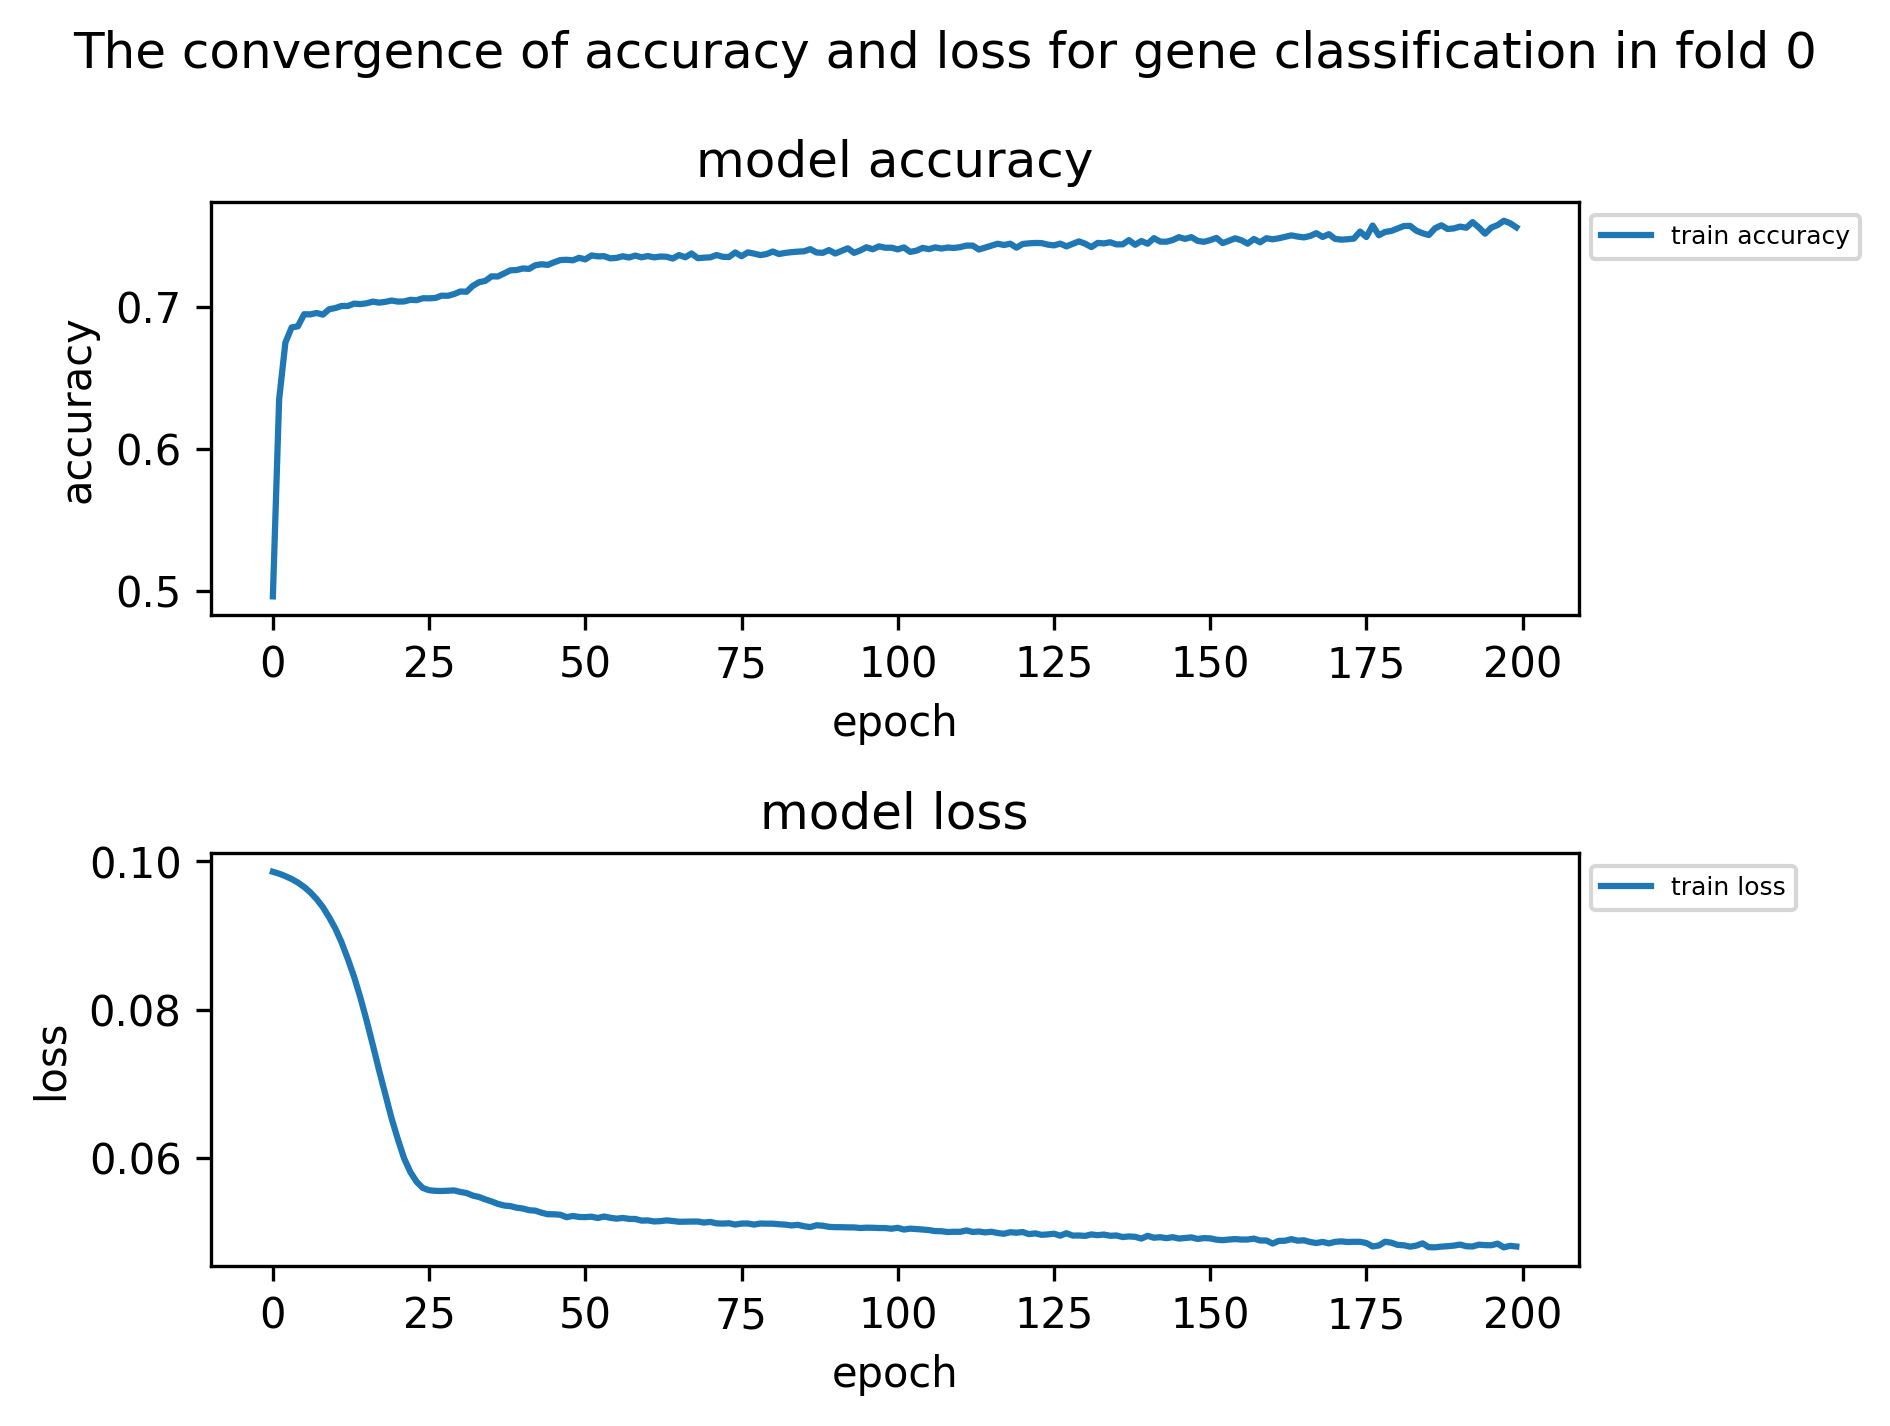
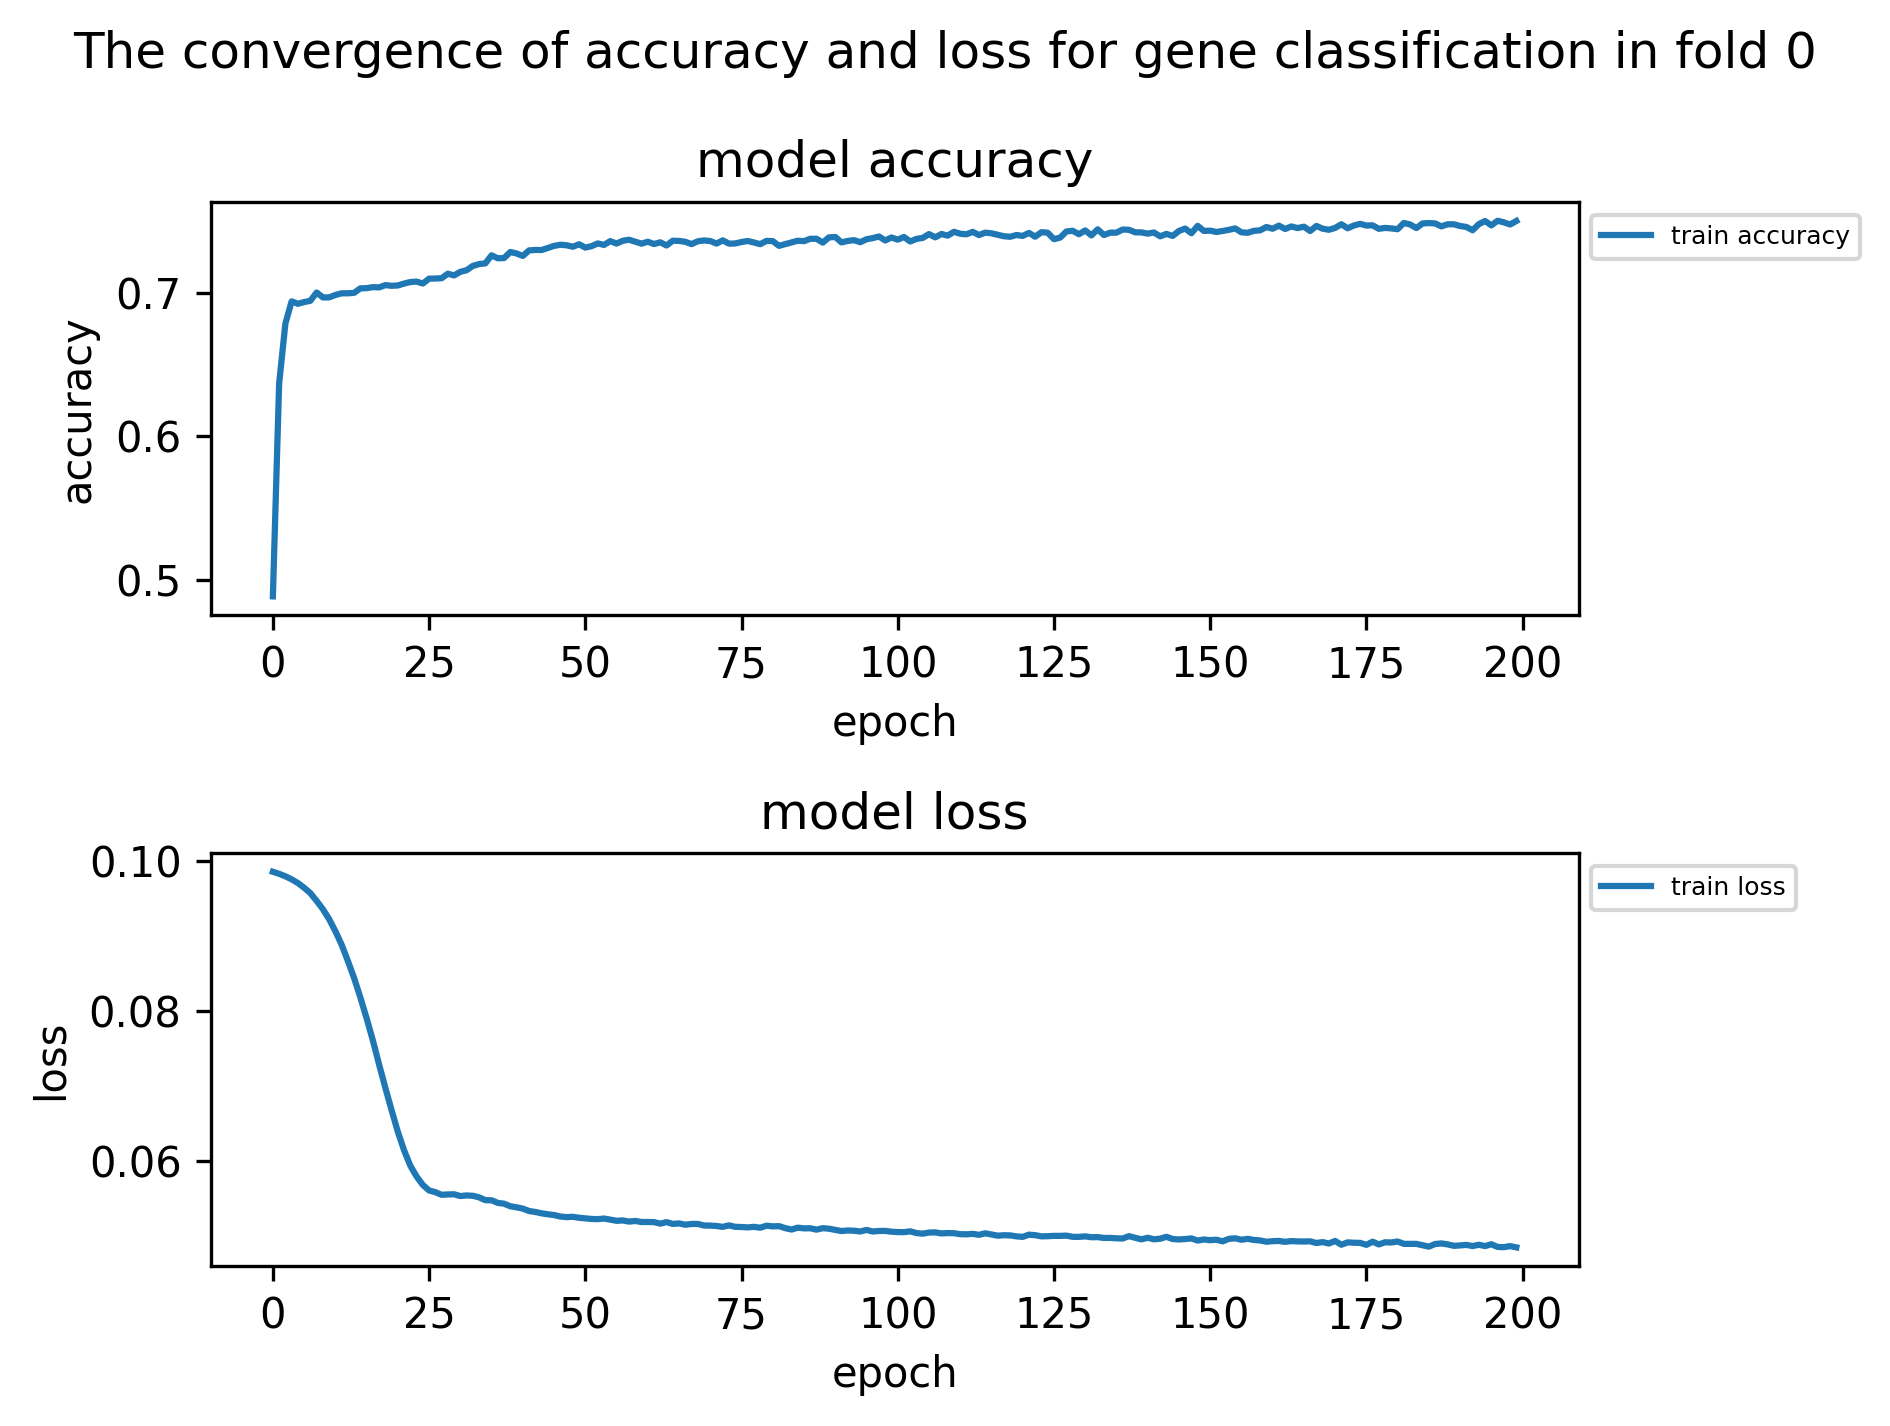
rerun code

diff --git a/src/my_utilities/my_model.py b/src/my_utilities/my_model.py
@@ -35,16 +35,16 @@ def complex_cnn_model(num_features):
     complex_model.add(Activation('tanh'))
     complex_model.add(Dense(2))
     # second conv layer
-    complex_model.add(Conv1D(8, kernel_size=3, strides=1, padding='same'))
+    complex_model.add(Conv1D(8, kernel_size=2, strides=1, padding='same'))
     # third conv layer
-    complex_model.add(Conv1D(16, kernel_size=3, strides=1, padding='same'))
+    complex_model.add(Conv1D(16, kernel_size=2, strides=1, padding='same'))
     complex_model.add(Activation('tanh'))
     complex_model.add(Dense(2))
     # fourth conv layer
-    complex_model.add(Conv1D(16, kernel_size=3, strides=1, padding='same'))
+    complex_model.add(Conv1D(16, kernel_size=2, strides=1, padding='same'))
     complex_model.add(Activation('tanh'))
     # fifth conv layer
-    complex_model.add(Conv1D(32, kernel_size=3, strides=1, padding='same'))
+    complex_model.add(Conv1D(32, kernel_size=2, strides=1, padding='same'))
     complex_model.add(Activation('tanh'))
     # flatten layer
     complex_model.add(Flatten())
